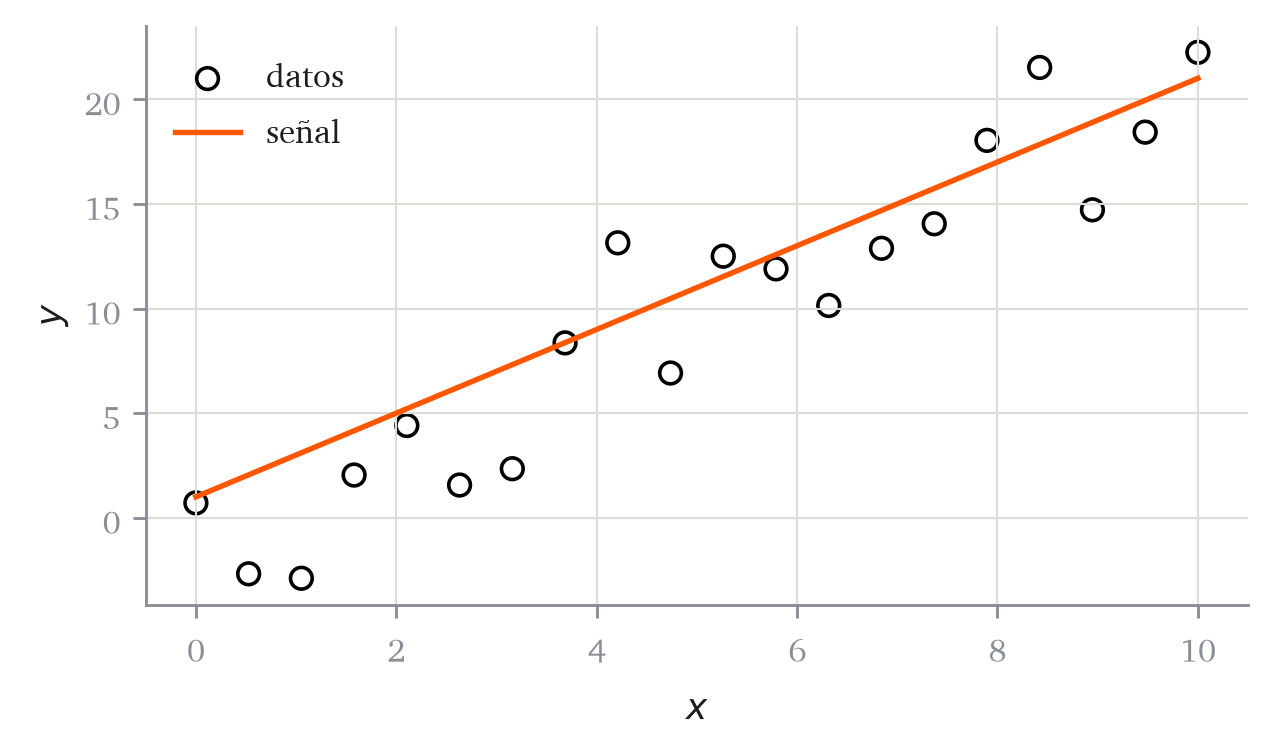
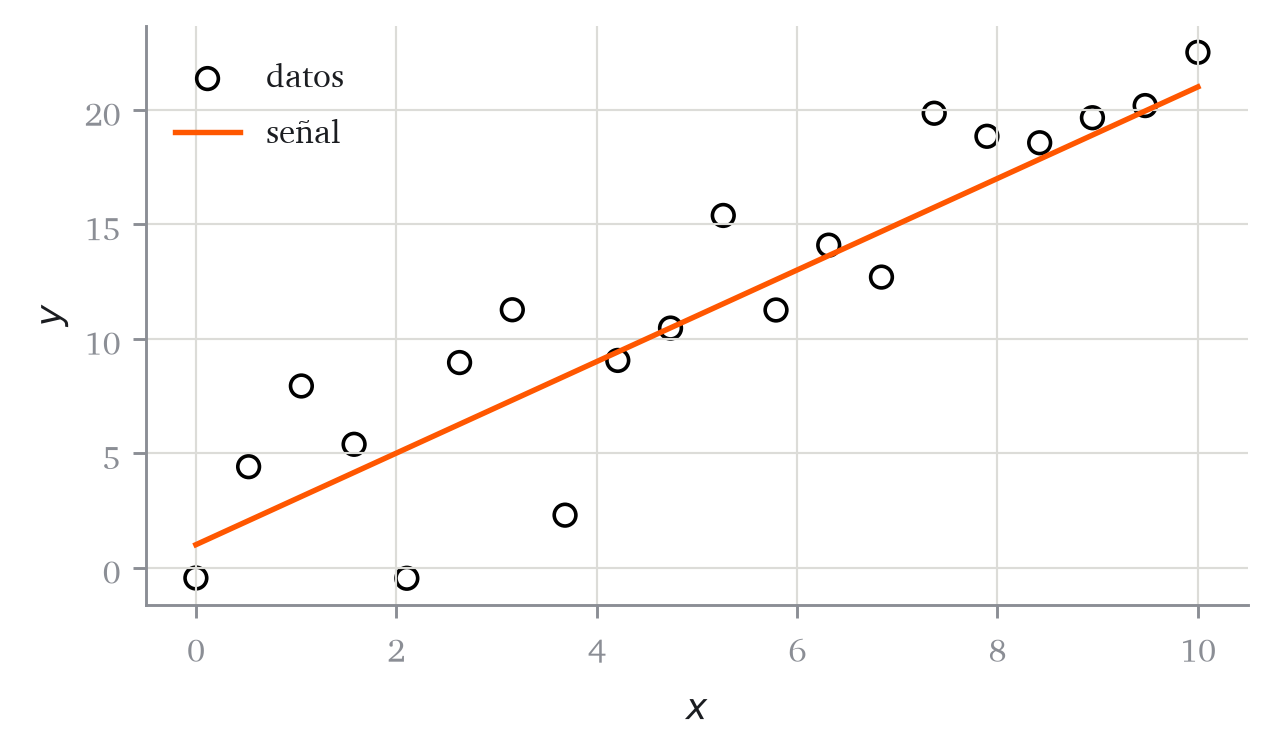
Quita la repetición del aviso de guardar copia en el anexo de Colab
El include ya lo dice, así que el párrafo siguiente explica solo por qué
importa.

diff --git a/docs/curso/colab.html b/docs/curso/colab.html
@@ -305,9 +305,7 @@ window.Quarto = {
 <p>Colab ejecuta Python en un ordenador de Google, desde el navegador. <strong>No hay que instalar nada</strong>: basta una cuenta de Google. Las bibliotecas del curso (<code>torch</code>, <code>numpy</code>, <code>matplotlib</code>, <code>scikit-learn</code>) ya vienen instaladas.</p>
 <p>Cada capítulo publica su cuaderno, con los huecos que se completan en el laboratorio, y el enlace lo abre en Colab. Este anexo también tiene el suyo, con todas las celdas de abajo:</p>
 <p><em><a href="https://colab.research.google.com/github/cunef-aap/adecd-26-27/blob/main/docs/live-notebooks/colab.ipynb">Abre el cuaderno de esta página en Google Colab</a>.</em> Lo primero, <strong>Archivo → Guardar una copia en Drive</strong>.</p>
-<p>Lo primero que hay que hacer al abrirlo:</p>
-<p><strong>Archivo → Guardar una copia en Drive.</strong></p>
-<p>El cuaderno que se abre desde el enlace es de solo lectura: puedes ejecutarlo, pero si cierras la pestaña <strong>pierdes lo que hayas escrito</strong>. La copia en tu Drive es tuya y se guarda sola.</p>
+<p>Guardar la copia no es una formalidad: el cuaderno que se abre desde el enlace es de solo lectura, así que puedes ejecutarlo, pero si cierras la pestaña <strong>pierdes lo que hayas escrito</strong>. La copia en tu Drive es tuya y se guarda sola.</p>
 </section>
 <section id="celdas-ejecutar-y-estado" class="level2">
 <h2 class="anchored" data-anchor-id="celdas-ejecutar-y-estado">Celdas: ejecutar y estado</h2>
@@ -323,7 +321,7 @@ window.Quarto = {
 <section id="variables" class="level2">
 <h2 class="anchored" data-anchor-id="variables">Variables</h2>
 <p>Una variable es un nombre para un valor. Se asigna con <code>=</code>, que no es igualdad matemática sino “guarda esto con este nombre”.</p>
-<div id="fcaf4f9a" class="cell" data-execution_count="2">
+<div id="84166a59" class="cell" data-execution_count="2">
 <div class="code-copy-outer-scaffold"><div class="sourceCode cell-code" id="cb1"><pre class="sourceCode python code-with-copy"><code class="sourceCode python"><span id="cb1-1"><a href="#cb1-1" aria-hidden="true" tabindex="-1"></a>n <span class="op">=</span> <span class="dv">20</span></span>
 <span id="cb1-2"><a href="#cb1-2" aria-hidden="true" tabindex="-1"></a>sigma <span class="op">=</span> <span class="fl">3.0</span></span>
 <span id="cb1-3"><a href="#cb1-3" aria-hidden="true" tabindex="-1"></a>titulo <span class="op">=</span> <span class="st">"señal más ruido"</span></span>
@@ -333,7 +331,7 @@ window.Quarto = {
 </div>
 </div>
 <p><code>20</code> es un entero y <code>3.0</code> un decimal; el punto es la diferencia. Los textos van entre comillas. La última expresión de una celda se muestra sola, sin <code>print</code>:</p>
-<div id="cef69f9c" class="cell" data-execution_count="3">
+<div id="cd40331e" class="cell" data-execution_count="3">
 <div class="code-copy-outer-scaffold"><div class="sourceCode cell-code" id="cb3"><pre class="sourceCode python code-with-copy"><code class="sourceCode python"><span id="cb3-1"><a href="#cb3-1" aria-hidden="true" tabindex="-1"></a>n <span class="op">*</span> sigma</span></code></pre></div><button title="Copiar al portapapeles" class="code-copy-button"><i class="bi"></i></button></div>
 <div class="cell-output cell-output-display" data-execution_count="3">
 <pre><code>60.0</code></pre>
@@ -343,7 +341,7 @@ window.Quarto = {
 <section id="listas-tuplas-y-desempaquetado" class="level2">
 <h2 class="anchored" data-anchor-id="listas-tuplas-y-desempaquetado">Listas, tuplas y desempaquetado</h2>
 <p>Una lista se escribe entre corchetes y se indexa <strong>desde cero</strong>:</p>
-<div id="692b2258" class="cell" data-execution_count="4">
+<div id="2d40ef2f" class="cell" data-execution_count="4">
 <div class="code-copy-outer-scaffold"><div class="sourceCode cell-code" id="cb5"><pre class="sourceCode python code-with-copy"><code class="sourceCode python"><span id="cb5-1"><a href="#cb5-1" aria-hidden="true" tabindex="-1"></a>pesos <span class="op">=</span> [<span class="fl">0.2</span>, <span class="fl">0.2</span>, <span class="fl">0.6</span>]</span>
 <span id="cb5-2"><a href="#cb5-2" aria-hidden="true" tabindex="-1"></a>pesos[<span class="dv">0</span>], pesos[<span class="dv">2</span>], <span class="bu">len</span>(pesos)</span></code></pre></div><button title="Copiar al portapapeles" class="code-copy-button"><i class="bi"></i></button></div>
 <div class="cell-output cell-output-display" data-execution_count="4">
@@ -351,7 +349,7 @@ window.Quarto = {
 </div>
 </div>
 <p>Los paréntesis hacen una tupla, que funciona igual pero no se puede modificar. Y una asignación puede repartir varios valores a la vez, algo que el curso usa mucho:</p>
-<div id="381ef336" class="cell" data-execution_count="5">
+<div id="5c58accc" class="cell" data-execution_count="5">
 <div class="code-copy-outer-scaffold"><div class="sourceCode cell-code" id="cb7"><pre class="sourceCode python code-with-copy"><code class="sourceCode python"><span id="cb7-1"><a href="#cb7-1" aria-hidden="true" tabindex="-1"></a>a, b <span class="op">=</span> <span class="op">-</span><span class="fl">0.3</span>, <span class="fl">0.2</span></span>
 <span id="cb7-2"><a href="#cb7-2" aria-hidden="true" tabindex="-1"></a>media, desviacion <span class="op">=</span> <span class="fl">0.0</span>, <span class="fl">1.0</span></span>
 <span id="cb7-3"><a href="#cb7-3" aria-hidden="true" tabindex="-1"></a>a, b, media, desviacion</span></code></pre></div><button title="Copiar al portapapeles" class="code-copy-button"><i class="bi"></i></button></div>
@@ -363,7 +361,7 @@ window.Quarto = {
 <section id="funciones" class="level2">
 <h2 class="anchored" data-anchor-id="funciones">Funciones</h2>
 <p><code>def</code> define una función: un cálculo con nombre, que recibe argumentos y <strong>devuelve</strong> un valor con <code>return</code>. El cuerpo va indentado cuatro espacios, y la indentación es obligatoria: es lo que marca dónde empieza y acaba la función.</p>
-<div id="c2bf92d9" class="cell" data-execution_count="6">
+<div id="07266073" class="cell" data-execution_count="6">
 <div class="code-copy-outer-scaffold"><div class="sourceCode cell-code" id="cb9"><pre class="sourceCode python code-with-copy"><code class="sourceCode python"><span id="cb9-1"><a href="#cb9-1" aria-hidden="true" tabindex="-1"></a><span class="kw">def</span> recta(x, pendiente, intercepto):</span>
 <span id="cb9-2"><a href="#cb9-2" aria-hidden="true" tabindex="-1"></a>    <span class="cf">return</span> pendiente <span class="op">*</span> x <span class="op">+</span> intercepto</span>
 <span id="cb9-3"><a href="#cb9-3" aria-hidden="true" tabindex="-1"></a></span>
@@ -373,7 +371,7 @@ window.Quarto = {
 </div>
 </div>
 <p>Los argumentos se pueden pasar <strong>por nombre</strong>, y así se lee mucho mejor cuando son varios:</p>
-<div id="aea3a325" class="cell" data-execution_count="7">
+<div id="16db6ab1" class="cell" data-execution_count="7">
 <div class="code-copy-outer-scaffold"><div class="sourceCode cell-code" id="cb11"><pre class="sourceCode python code-with-copy"><code class="sourceCode python"><span id="cb11-1"><a href="#cb11-1" aria-hidden="true" tabindex="-1"></a>recta(<span class="fl">2.0</span>, intercepto<span class="op">=</span><span class="fl">1.0</span>, pendiente<span class="op">=</span><span class="fl">3.0</span>)</span></code></pre></div><button title="Copiar al portapapeles" class="code-copy-button"><i class="bi"></i></button></div>
 <div class="cell-output cell-output-display" data-execution_count="7">
 <pre><code>7.0</code></pre>
@@ -383,7 +381,7 @@ window.Quarto = {
 <section id="bucles-y-condiciones" class="level2">
 <h2 class="anchored" data-anchor-id="bucles-y-condiciones">Bucles y condiciones</h2>
 <p><code>for</code> repite algo para cada elemento de una lista, y <code>if</code> decide. Los dos usan indentación.</p>
-<div id="f85a6bb4" class="cell" data-execution_count="8">
+<div id="3e91fa98" class="cell" data-execution_count="8">
 <div class="code-copy-outer-scaffold"><div class="sourceCode cell-code" id="cb13"><pre class="sourceCode python code-with-copy"><code class="sourceCode python"><span id="cb13-1"><a href="#cb13-1" aria-hidden="true" tabindex="-1"></a>mejor <span class="op">=</span> <span class="op">-</span><span class="fl">100.0</span></span>
 <span id="cb13-2"><a href="#cb13-2" aria-hidden="true" tabindex="-1"></a><span class="cf">for</span> candidato <span class="kw">in</span> [<span class="fl">1.5</span>, <span class="fl">2.0</span>, <span class="fl">2.5</span>]:</span>
 <span id="cb13-3"><a href="#cb13-3" aria-hidden="true" tabindex="-1"></a>    valor <span class="op">=</span> <span class="op">-</span>(candidato <span class="op">-</span> <span class="fl">2.0</span>) <span class="op">**</span> <span class="dv">2</span></span>
@@ -401,7 +399,7 @@ window.Quarto = {
 <section id="tensores-los-vectores-del-curso" class="level2">
 <h2 class="anchored" data-anchor-id="tensores-los-vectores-del-curso">Tensores: los vectores del curso</h2>
 <p>Los datos del curso no son listas, son <strong>tensores</strong> de <code>torch</code>. Un tensor es una tira de números sobre la que las operaciones actúan <strong>elemento a elemento</strong>, sin escribir bucles. Es la razón de usarlos: la fórmula matemática se traduce casi literalmente.</p>
-<div id="72221f3d" class="cell" data-execution_count="9">
+<div id="4cd42223" class="cell" data-execution_count="9">
 <div class="code-copy-outer-scaffold"><div class="sourceCode cell-code" id="cb15"><pre class="sourceCode python code-with-copy"><code class="sourceCode python"><span id="cb15-1"><a href="#cb15-1" aria-hidden="true" tabindex="-1"></a><span class="im">import</span> torch</span>
 <span id="cb15-2"><a href="#cb15-2" aria-hidden="true" tabindex="-1"></a></span>
 <span id="cb15-3"><a href="#cb15-3" aria-hidden="true" tabindex="-1"></a>x <span class="op">=</span> torch.tensor([<span class="fl">0.0</span>, <span class="fl">1.0</span>, <span class="fl">2.0</span>, <span class="fl">3.0</span>])</span>
@@ -411,26 +409,26 @@ window.Quarto = {
 </div>
 </div>
 <p>Compáralo con una lista: <code>2 * [0.0, 1.0]</code> repetiría la lista en lugar de multiplicar. Las tres formas de crear tensores que usa el capítulo 1:</p>
-<div id="be970ee4" class="cell" data-execution_count="10">
+<div id="9c574718" class="cell" data-execution_count="10">
 <div class="code-copy-outer-scaffold"><div class="sourceCode cell-code" id="cb17"><pre class="sourceCode python code-with-copy"><code class="sourceCode python"><span id="cb17-1"><a href="#cb17-1" aria-hidden="true" tabindex="-1"></a>torch.linspace(<span class="dv">0</span>, <span class="dv">10</span>, <span class="dv">5</span>)        <span class="co"># 5 valores igualmente espaciados de 0 a 10</span></span></code></pre></div><button title="Copiar al portapapeles" class="code-copy-button"><i class="bi"></i></button></div>
 <div class="cell-output cell-output-display" data-execution_count="10">
 <pre><code>tensor([ 0.0000,  2.5000,  5.0000,  7.5000, 10.0000])</code></pre>
 </div>
 </div>
-<div id="061384a0" class="cell" data-execution_count="11">
+<div id="3eba81c7" class="cell" data-execution_count="11">
 <div class="code-copy-outer-scaffold"><div class="sourceCode cell-code" id="cb19"><pre class="sourceCode python code-with-copy"><code class="sourceCode python"><span id="cb19-1"><a href="#cb19-1" aria-hidden="true" tabindex="-1"></a>torch.randn(<span class="dv">4</span>)                  <span class="co"># 4 números al azar de una normal estándar</span></span></code></pre></div><button title="Copiar al portapapeles" class="code-copy-button"><i class="bi"></i></button></div>
 <div class="cell-output cell-output-display" data-execution_count="11">
-<pre><code>tensor([-0.2918, -0.4349,  1.4200, -0.0751])</code></pre>
+<pre><code>tensor([ 0.3761, -0.2283,  1.4198, -0.6559])</code></pre>
 </div>
 </div>
-<div id="efa5b937" class="cell" data-execution_count="12">
+<div id="513352f4" class="cell" data-execution_count="12">
 <div class="code-copy-outer-scaffold"><div class="sourceCode cell-code" id="cb21"><pre class="sourceCode python code-with-copy"><code class="sourceCode python"><span id="cb21-1"><a href="#cb21-1" aria-hidden="true" tabindex="-1"></a>torch.normal(<span class="fl">3.0</span>, <span class="fl">2.0</span>, size<span class="op">=</span>(<span class="dv">4</span>,))   <span class="co"># al azar, con media 3 y desviación 2</span></span></code></pre></div><button title="Copiar al portapapeles" class="code-copy-button"><i class="bi"></i></button></div>
 <div class="cell-output cell-output-display" data-execution_count="12">
-<pre><code>tensor([2.8230, 5.1166, 0.3255, 5.4390])</code></pre>
+<pre><code>tensor([ 5.6305, -0.2154,  0.5128, -0.2970])</code></pre>
 </div>
 </div>
 <p>Y las operaciones que hacen falta para leer el capítulo:</p>
-<div id="07fe739a" class="cell" data-execution_count="13">
+<div id="ec176fbb" class="cell" data-execution_count="13">
 <div class="code-copy-outer-scaffold"><div class="sourceCode cell-code" id="cb23"><pre class="sourceCode python code-with-copy"><code class="sourceCode python"><span id="cb23-1"><a href="#cb23-1" aria-hidden="true" tabindex="-1"></a>y <span class="op">=</span> torch.tensor([<span class="fl">1.0</span>, <span class="fl">4.0</span>, <span class="fl">9.0</span>])</span>
 <span id="cb23-2"><a href="#cb23-2" aria-hidden="true" tabindex="-1"></a>y.<span class="bu">sum</span>(), y.<span class="bu">max</span>(), <span class="bu">len</span>(y), y[<span class="dv">0</span>]</span></code></pre></div><button title="Copiar al portapapeles" class="code-copy-button"><i class="bi"></i></button></div>
 <div class="cell-output cell-output-display" data-execution_count="13">
@@ -442,7 +440,7 @@ window.Quarto = {
 <li><strong><code>.item()</code></strong> saca el número de un tensor de <strong>un solo</strong> elemento, para poder usarlo como un decimal normal. Sobre un tensor de varios da error.</li>
 <li><strong><code>.numpy()</code></strong> convierte el tensor en un array de <code>numpy</code>, que es lo que entiende <code>matplotlib</code> al dibujar.</li>
 </ul>
-<div id="493634e0" class="cell" data-execution_count="14">
+<div id="e1f1ba72" class="cell" data-execution_count="14">
 <div class="code-copy-outer-scaffold"><div class="sourceCode cell-code" id="cb25"><pre class="sourceCode python code-with-copy"><code class="sourceCode python"><span id="cb25-1"><a href="#cb25-1" aria-hidden="true" tabindex="-1"></a>y[<span class="dv">0</span>].item(), y.numpy()</span></code></pre></div><button title="Copiar al portapapeles" class="code-copy-button"><i class="bi"></i></button></div>
 <div class="cell-output cell-output-display" data-execution_count="14">
 <pre><code>(1.0, array([1., 4., 9.], dtype=float32))</code></pre>
@@ -452,7 +450,7 @@ window.Quarto = {
 <section id="dibujar-una-figura" class="level2">
 <h2 class="anchored" data-anchor-id="dibujar-una-figura">Dibujar una figura</h2>
 <p>Todas las figuras del curso siguen el mismo patrón de tres líneas: crear los ejes, dibujar sobre ellos y etiquetar.</p>
-<div id="ee9aac15" class="cell" data-execution_count="15">
+<div id="41cef112" class="cell" data-execution_count="15">
 <div class="code-copy-outer-scaffold"><div class="sourceCode cell-code" id="cb27"><pre class="sourceCode python code-with-copy"><code class="sourceCode python"><span id="cb27-1"><a href="#cb27-1" aria-hidden="true" tabindex="-1"></a><span class="im">from</span> matplotlib <span class="im">import</span> pyplot <span class="im">as</span> plt</span>
 <span id="cb27-2"><a href="#cb27-2" aria-hidden="true" tabindex="-1"></a></span>
 <span id="cb27-3"><a href="#cb27-3" aria-hidden="true" tabindex="-1"></a>x <span class="op">=</span> torch.linspace(<span class="dv">0</span>, <span class="dv">10</span>, <span class="dv">20</span>)</span>
@@ -478,7 +476,7 @@ window.Quarto = {
 <section id="la-semilla" class="level2">
 <h2 class="anchored" data-anchor-id="la-semilla">La semilla</h2>
 <p><code>torch.randn</code> da números distintos cada vez, así que una figura no saldría dos veces igual. Fijar la <strong>semilla</strong> hace que la secuencia de números al azar sea siempre la misma:</p>
-<div id="d06a2c21" class="cell" data-execution_count="16">
+<div id="e21ea697" class="cell" data-execution_count="16">
 <div class="code-copy-outer-scaffold"><div class="sourceCode cell-code" id="cb28"><pre class="sourceCode python code-with-copy"><code class="sourceCode python"><span id="cb28-1"><a href="#cb28-1" aria-hidden="true" tabindex="-1"></a>torch.manual_seed(<span class="dv">42</span>)</span>
 <span id="cb28-2"><a href="#cb28-2" aria-hidden="true" tabindex="-1"></a>primera <span class="op">=</span> torch.randn(<span class="dv">3</span>)</span>
 <span id="cb28-3"><a href="#cb28-3" aria-hidden="true" tabindex="-1"></a>torch.manual_seed(<span class="dv">42</span>)</span>

diff --git a/.claude/skills/aap-capitulo/references/hojas-y-cuadernos.md b/.claude/skills/aap-capitulo/references/hojas-y-cuadernos.md
@@ -3,10 +3,10 @@
 ## Estado actual
 
 `problemas/` **está publicado**: el índice, las hojas 1 y 2 con sus solucionarios, y los
-nueve esqueletos de las hojas 3 a 11. `evaluacion/` sigue fuera del libro, con el banco y los
-ejercicios tipo examen escritos contra la estructura antigua de dieciséis capítulos y con
-referencias cruzadas rotas. Al reescribir ese material hay que renumerarlo y comprobar que
-todo `@...` resuelve.
+nueve esqueletos de las hojas 3 a 11. `evaluacion/` sigue fuera del libro, con el banco y
+los ejercicios tipo examen escritos contra la estructura antigua de dieciséis capítulos y
+con referencias cruzadas rotas. Al reescribir ese material hay que renumerarlo y comprobar
+que todo `@...` resuelve.
 
 **Todo lo que se enlace tiene que estar listado en `_quarto.yml`.** Un fichero enlazado y no
 listado no se renderiza: Quarto lo copia como `.qmd` al directorio de salida y el enlace
@@ -26,10 +26,10 @@ Los dos se publican, listados en `_quarto.yml` bajo la parte "Hojas de problemas
 publicar las soluciones basta con comentar sus líneas ahí y quitar el enlace del pie de cada
 hoja.
 
-El enunciado se duplica a propósito. Con una decena de ejercicios por hoja es más robusto que
-un include compartido, que obligaría a separar cada solución de su enunciado. La solución
-resuelta se genera desde la hoja con el ayudante de la skill, de modo que las dos versiones
-no se desincronizan mientras se edite solo la de enunciados.
+El enunciado se duplica a propósito. Con una decena de ejercicios por hoja es más robusto
+que un include compartido, que obligaría a separar cada solución de su enunciado. La
+solución resuelta se genera desde la hoja con el ayudante de la skill, de modo que las dos
+versiones no se desincronizan mientras se edite solo la de enunciados.
 
 ### Los ejercicios vienen de dos sitios
 
@@ -133,10 +133,10 @@ Dos avisos comprobados sobre el estado actual:
    referencias rotas hoy: `def-senal-ruido`, `def-errores`, `def-sobreajuste`,
    `thm-interpolacion`, `lem-media-optima` y `prp-laplace-mae`. Los otros dos,
    `cor-senal-media` y `cor-ruido-objetivo`, son nombres propuestos a partir de la prosa del
-   índice: no aparecen en ningún fichero del repositorio y nadie los cita todavía. Al revisar
-   los capítulos 1 y 2 hay que escribirlos o retirarlos del índice.
-3. Sus números de capítulo son los de la **estructura antigua de dieciséis capítulos**. Antes
-   de fiarse de una fila hay que traducirla a la estructura de nueve.
+   índice: no aparecen en ningún fichero del repositorio y nadie los cita todavía. Al
+   revisar los capítulos 1 y 2 hay que escribirlos o retirarlos del índice.
+3. Sus números de capítulo son los de la **estructura antigua de dieciséis capítulos**.
+   Antes de fiarse de una fila hay que traducirla a la estructura de nueve.
 
 Las filas del índice se nombran hoy en prosa ("Teo. interpolación exacta"), no con la
 etiqueta del entorno, así que no hay forma mecánica de casarlas. Al añadir filas nuevas,
@@ -169,8 +169,8 @@ nueve, no se acaba. El recuento se comprueba con
 **Deuda medida en agosto de 2026**: el capítulo 1 tiene 4 huecos para dos sesiones, es decir
 2 por sesión, y le faltan unos ocho. El 2 va a 5.5, el 3 a 6.5 y el 4 a 5.5, que están en
 rango. Los del 4 se reparten así: la API (`predict`, `mse`, `fit`), la partición, la mejor
-constante, las cuatro métricas, el error típico de la estimación, el experimento de selección,
-las tres piezas de la validación cruzada y el reajuste final con la comparación.
+constante, las cuatro métricas, el error típico de la estimación, el experimento de
+selección, las tres piezas de la validación cruzada y el reajuste final con la comparación.
 
 ## Cuadernos
 
@@ -182,18 +182,18 @@ llama a `scripts/crear-ipynb.py`. Consecuencias al escribir el capítulo:
 - El preámbulo `.content-hidden` **no llega**, así que el primer bloque visible lleva los
   imports reales y la semilla.
 - **El enlace a Colab se activa por documento**, desde agosto de 2026. Dos pasos: declarar
-  `cuaderno: <nombre>.ipynb` en la cabecera YAML del `.qmd` y poner
-  `{{< include ../assets/includes/_colab-link.qmd >}}` donde deba salir el enlace. El include
-  construye la URL con `{{< meta cuaderno >}}` sobre el repositorio público, y se oculta en
-  formato `ipynb` para que el cuaderno no se enlace a sí mismo. Lo tienen el capítulo 1 y
-  `curso/colab.qmd`; los demás capítulos lo ganan cuando se publiquen.
-  **No usar `QUARTO_DOCUMENT_FILE`**: Quarto no lo define al renderizar, comprobado.
+  `cuaderno: <nombre>.ipynb` en la cabecera YAML del `.qmd` y poner `{{< include
+  ../assets/includes/_colab-link.qmd >}}` donde deba salir el enlace. El include construye
+  la URL con `{{< meta cuaderno >}}` sobre el repositorio público, y se oculta en formato
+  `ipynb` para que el cuaderno no se enlace a sí mismo. Lo tienen el capítulo 1 y
+  `curso/colab.qmd`; los demás capítulos lo ganan cuando se publiquen. **No usar
+  `QUARTO_DOCUMENT_FILE`**: Quarto no lo define al renderizar, comprobado.
 - Los divs de referencia cruzada se desanidan con `restore-cells.lua`, de modo que el código
   dentro de `::: {#fig-...}` sí sale como celda ejecutable.
 - El cuaderno se genera con `--no-execute`, así que un error de ejecución no se detecta ahí.
   Se detecta en `make sitio`.
 
-`curso/colab.qmd` es la excepción a «los cuadernos salen de los capítulos»: es un anexo, no
+`curso/colab.qmd` es la excepción a la regla anterior: es un anexo, no
 un capítulo, y genera cuaderno porque es donde se aprende a usar la herramienta. Está
 declarado a mano en `_quarto-notebooks.yml` y en `scripts/crear-ipynb.py`, que por defecto
 solo recorre `capitulos/*.qmd`. No tiene huecos `#---`: se ejecuta entero.
